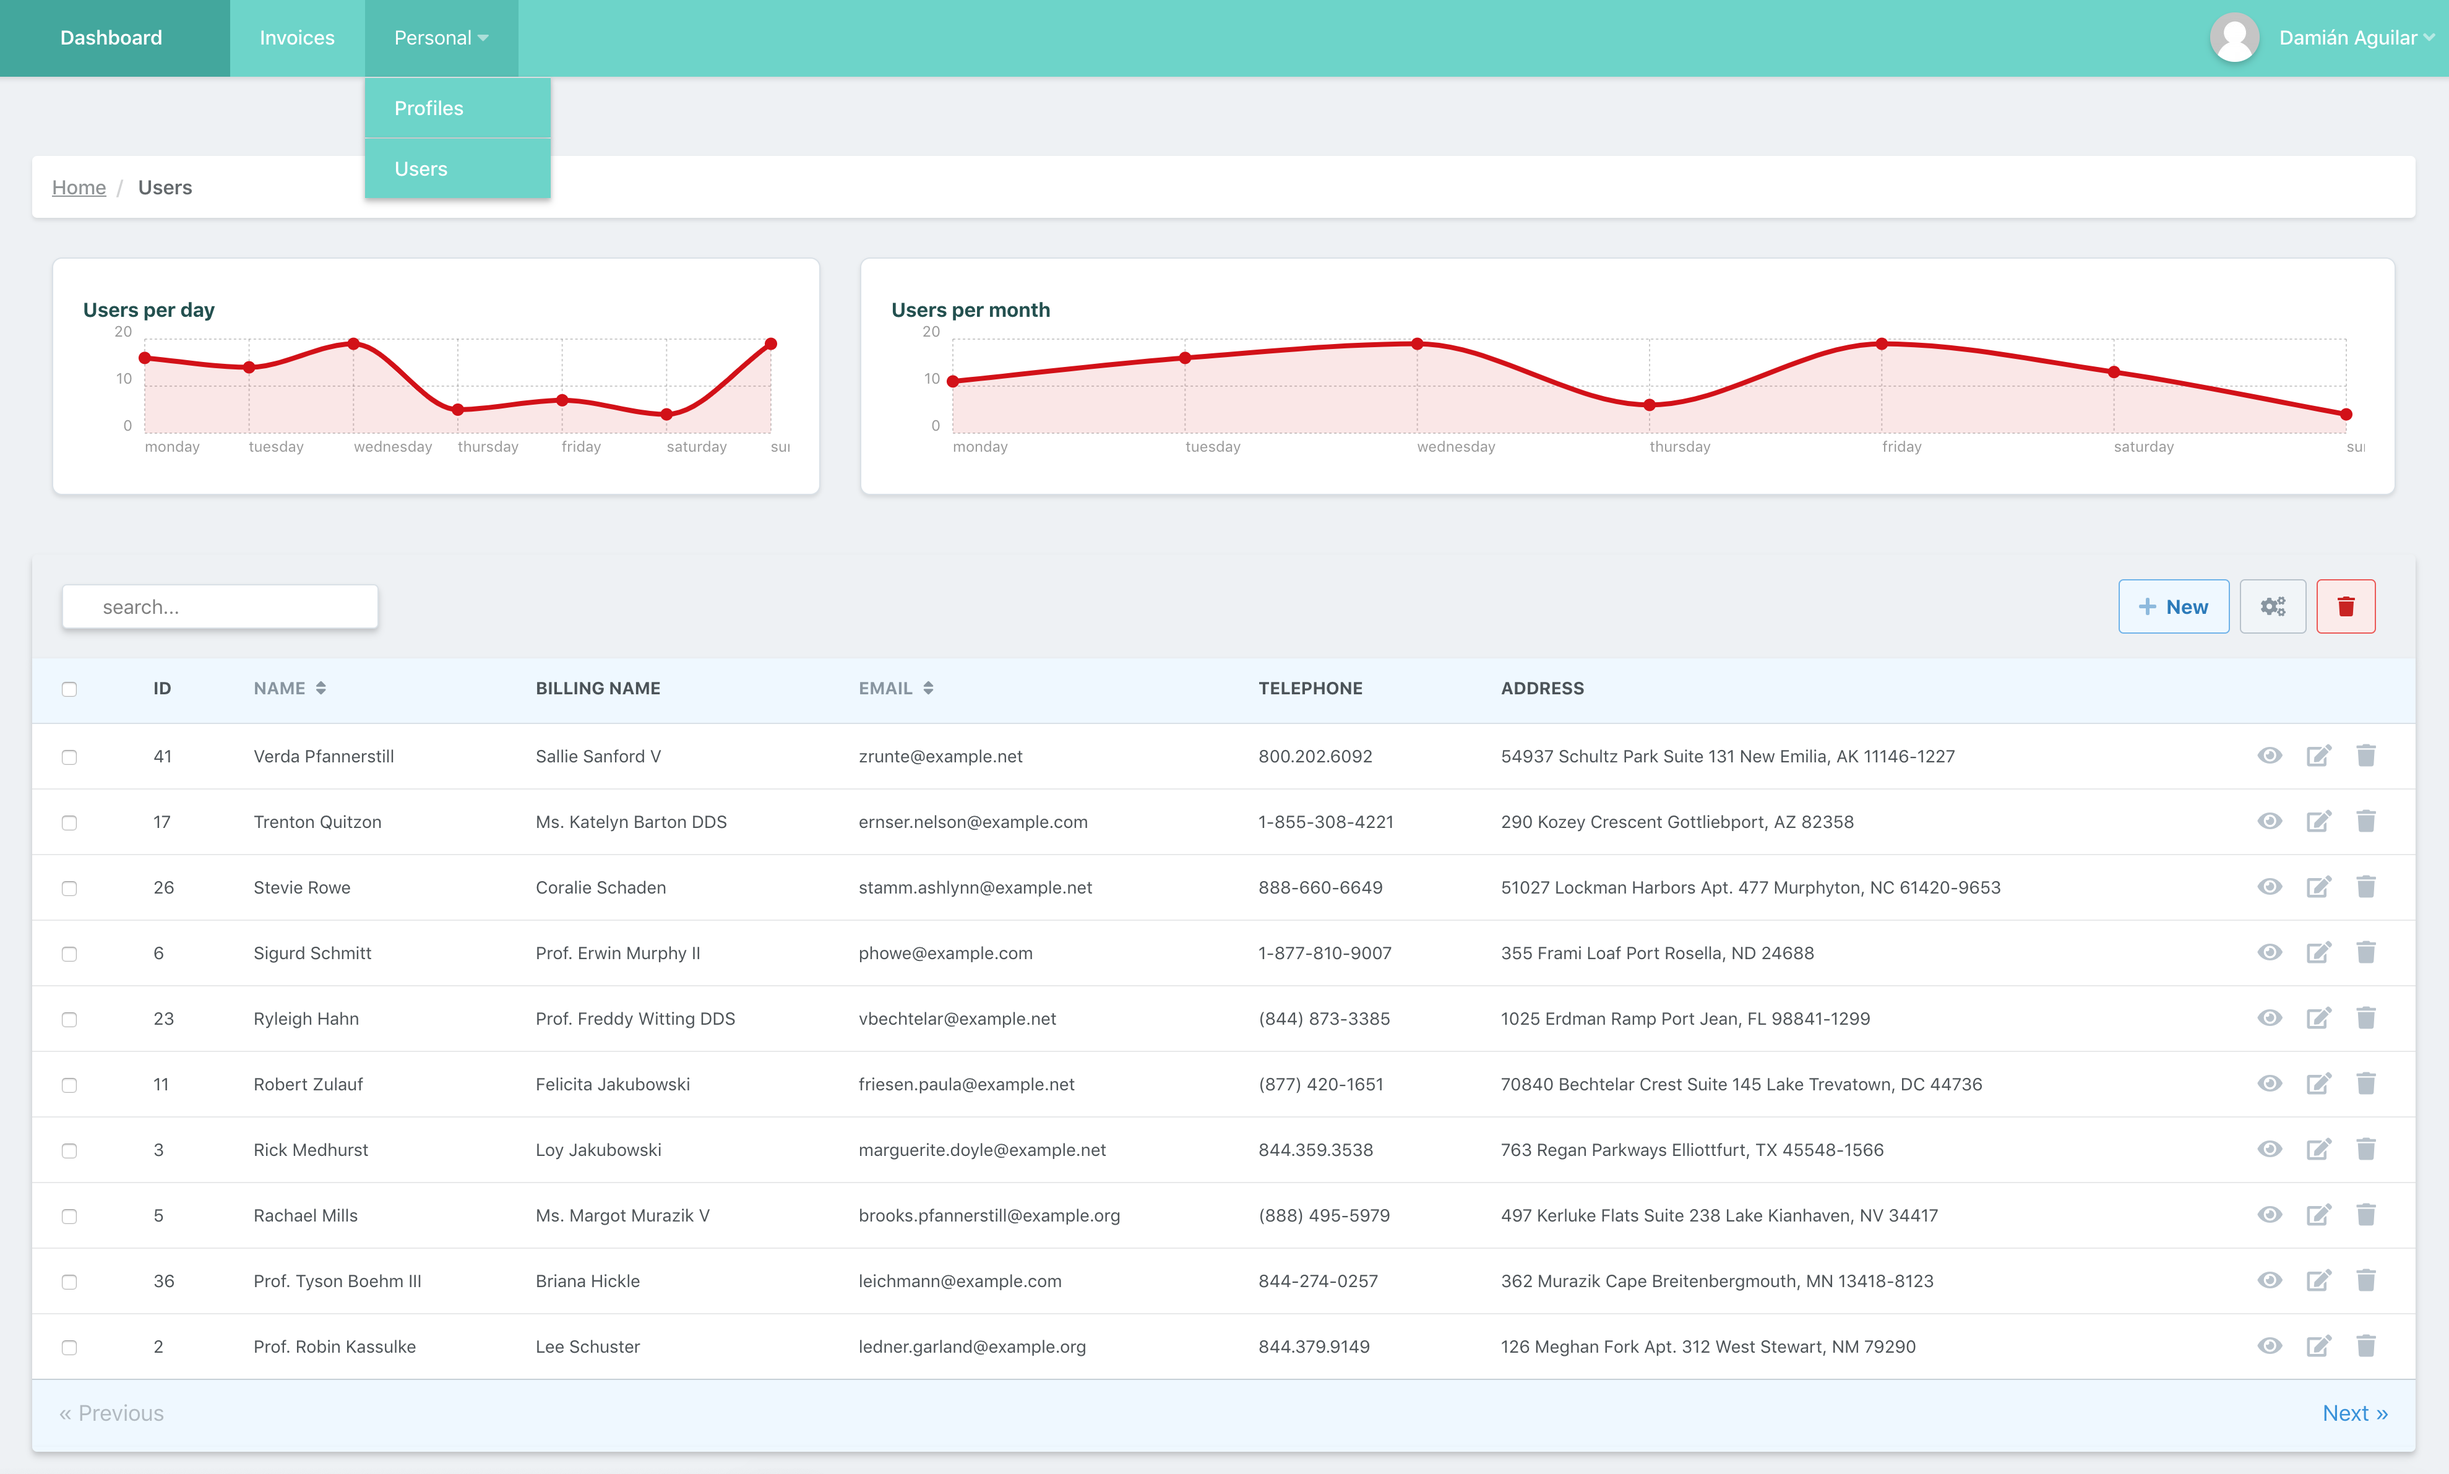
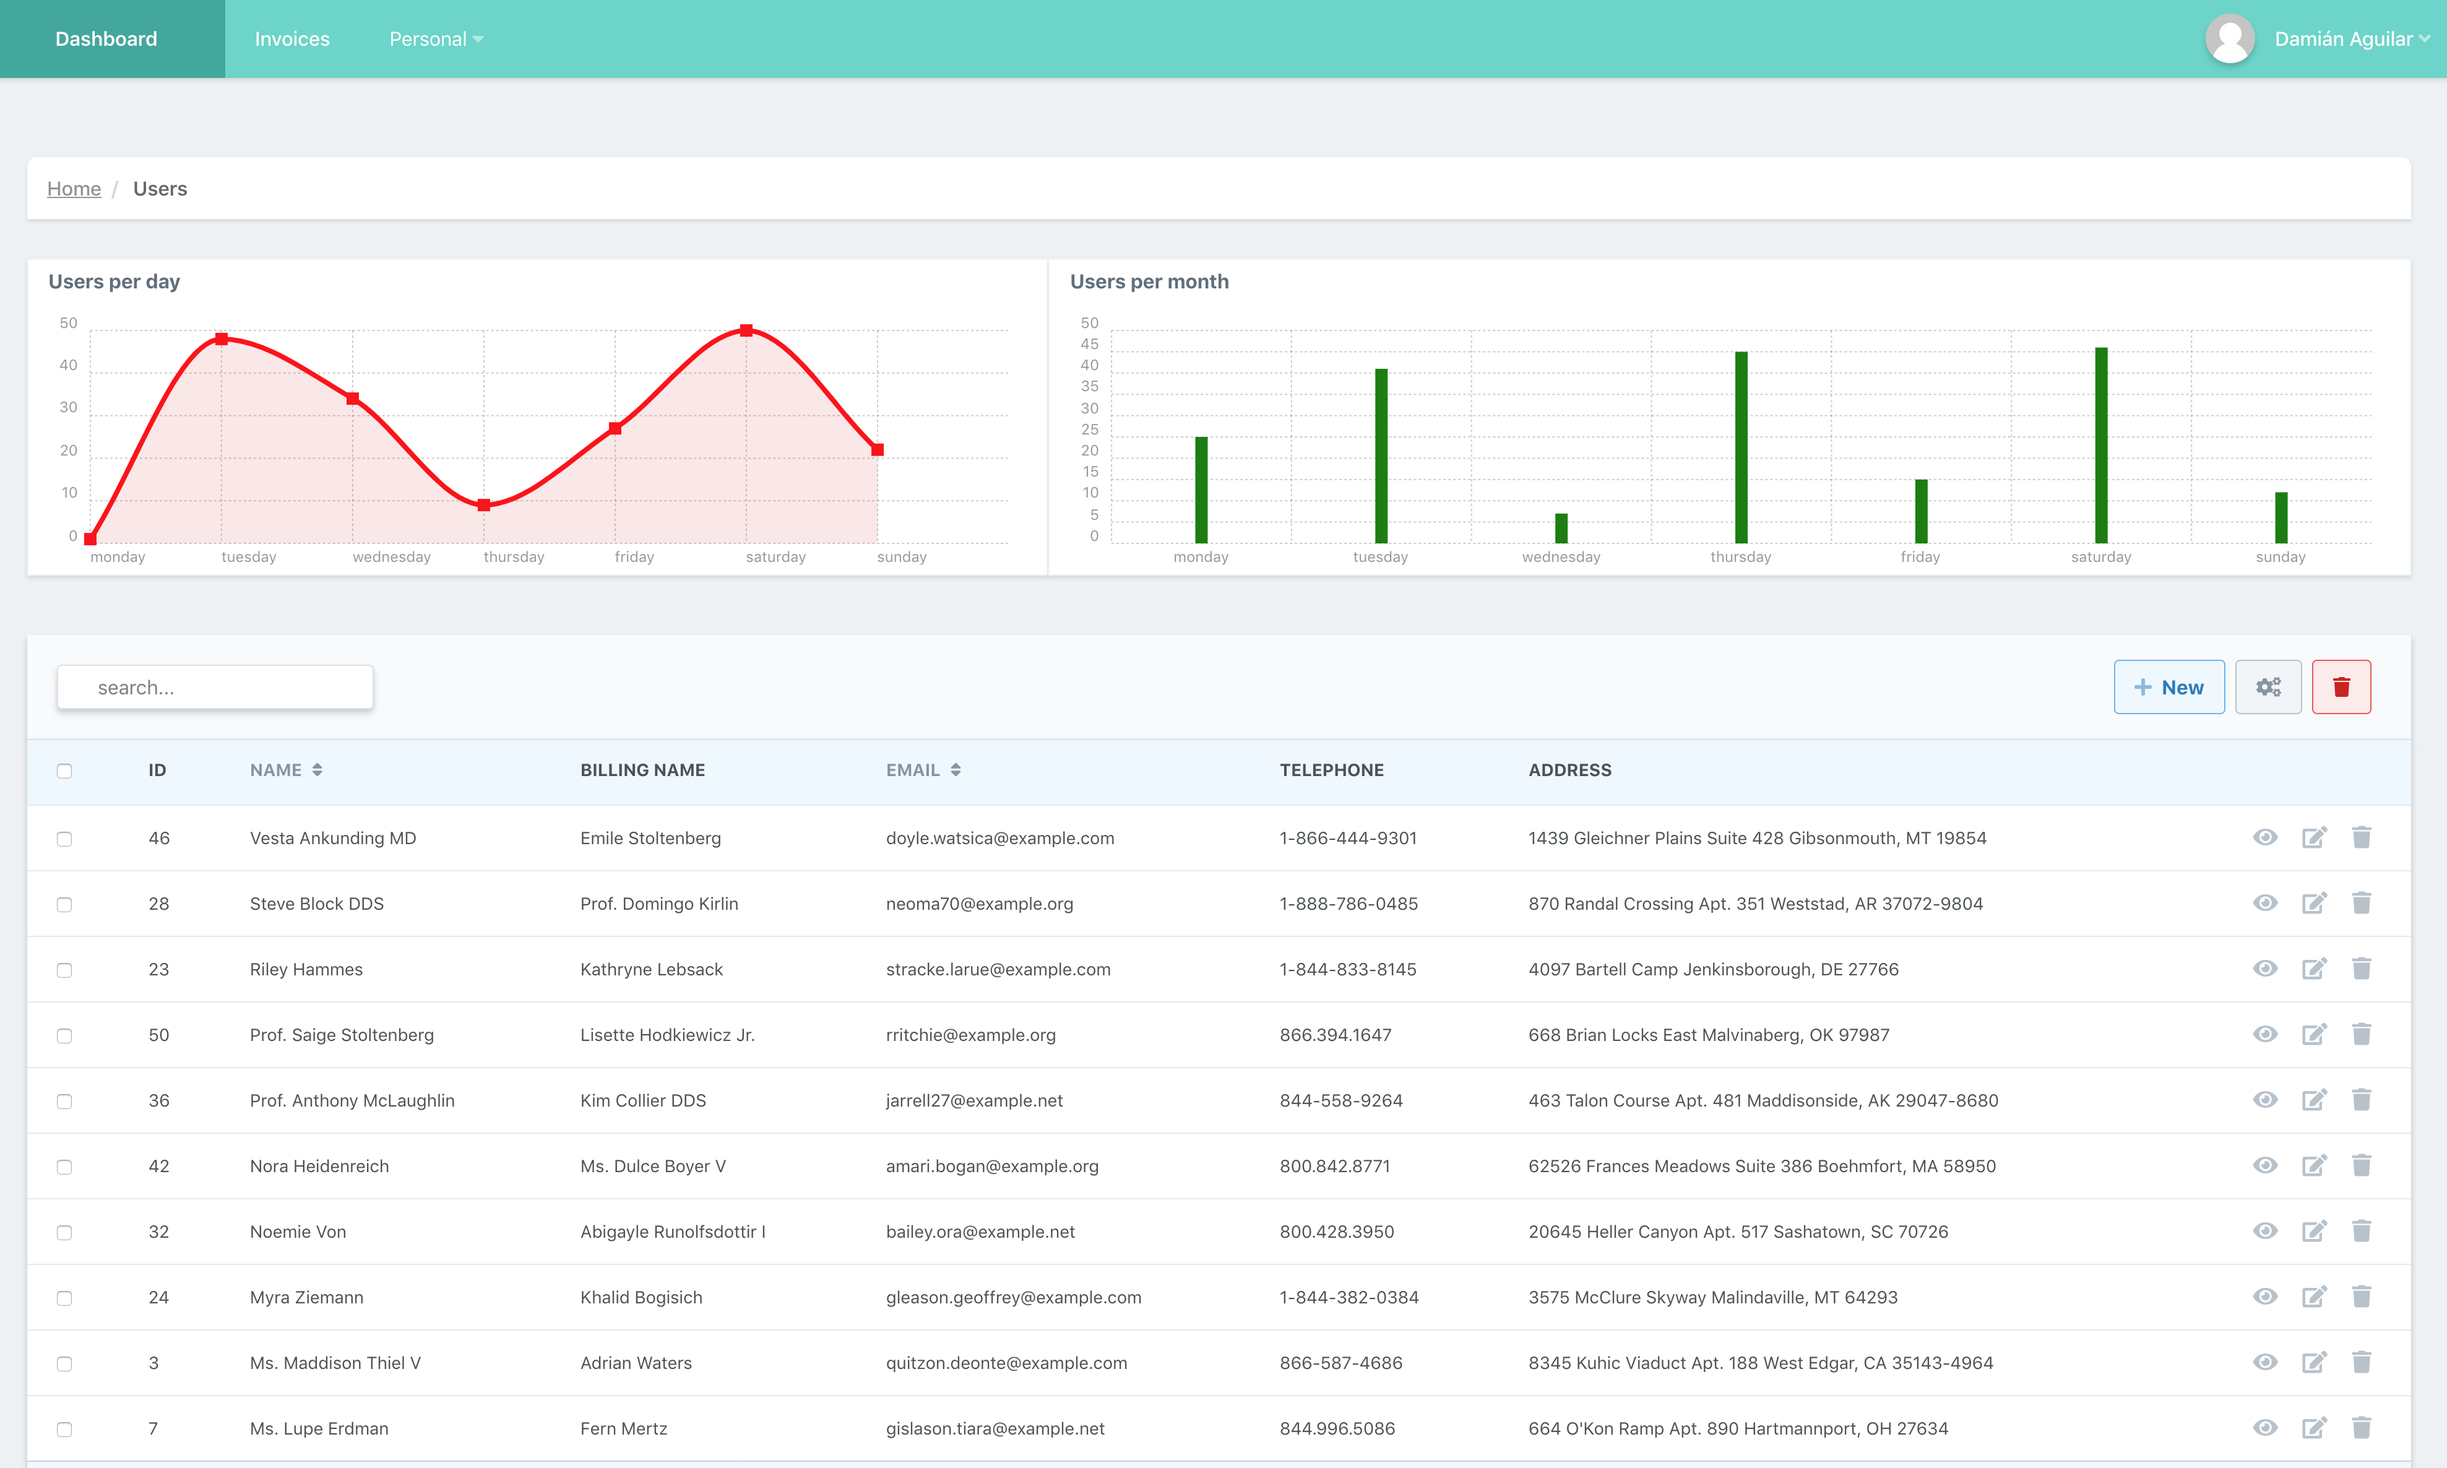
updated

diff --git a/src/Components/Metrics/Render.php b/src/Components/Metrics/Render.php
@@ -80,6 +80,14 @@ class Render {
             return $this->barGraph($key);
         }
 
+        if($type === 'horizontal-bars') {
+            return $this->horizontalBarGraph($key);
+        }
+
+        if($type === 'pie') {
+            return $this->pieGraph($key);
+        }
+
         return $this->lineGraph($key);
     }
 
@@ -90,17 +98,30 @@ class Render {
     */
     private function lineGraph($key)
     {
-        $options = $this->withArea ? ',{showArea: true,low: 0}' : '';
+        $withArea = $this->withArea ? "{showArea: true, low: 0}" : '';
 
-        return sprintf("new Chartist.Line('.%s',data_%s%s);", $this->uriKey, $key, $options);
+        return sprintf("new Chartist.Line('.%s',data_%s,%s);", $this->uriKey, $key, $withArea);
     }
 
-    private function barGraph($key, $labelValue = 'users') {
+    private function barGraph($key) {
         $options = "seriesBarDistance:10,axisX:{offset:30},axisY:{offset:40,labelInterpolationFnc:function(value){return value},scaleMinSpace:15}";
 
         return sprintf("new Chartist.Bar('.%s',data_%s,{%s});", $this->uriKey, $key, $options);
     }
 
+    private function horizontalBarGraph($key) {
+        $barGraph = substr($this->barGraph($key, $labelValue), 0, -3);
+        $options = "reverseData:true,horizontalBars:true,seriesBarDistance:10,axisX:{offset:30},axisY:{offset:100,labelInterpolationFnc:function(value){return value},scaleMinSpace:15}";
+
+        return sprintf("new Chartist.Bar('.%s',data_%s,{%s});", $this->uriKey, $key, $options);
+    }
+
+    private function pieGraph($key) {
+        $options = "{donut:true,donutWidth:50,donutSolid:true,startAngle:270,total:200,showLabel:false}";
+
+        $data = "{labels:['monday','tuesday','wednesday','thursday','friday','saturday','sunday'],series:['37','41','45','19','43','14','29']}";
+        return sprintf("new Chartist.Pie('.%s',%s,%s);", $this->uriKey, $data, $options);
+    }
     /*
     |--------------------------------------------------------------------------
     | Helpers

diff --git a/README.md b/README.md
@@ -34,6 +34,10 @@ Project in development. Still in the early stages...help will be great!!!
 
 ## Screenshots
 
+#### With stats 
+
+![Dashboard](https://raw.githubusercontent.com/daguilarm/belich/master/documents/stats.gif)
+
 #### Dashboard
 ![Dashboard](https://raw.githubusercontent.com/daguilarm/belich/master/documents/videos/belich.gif)
 
